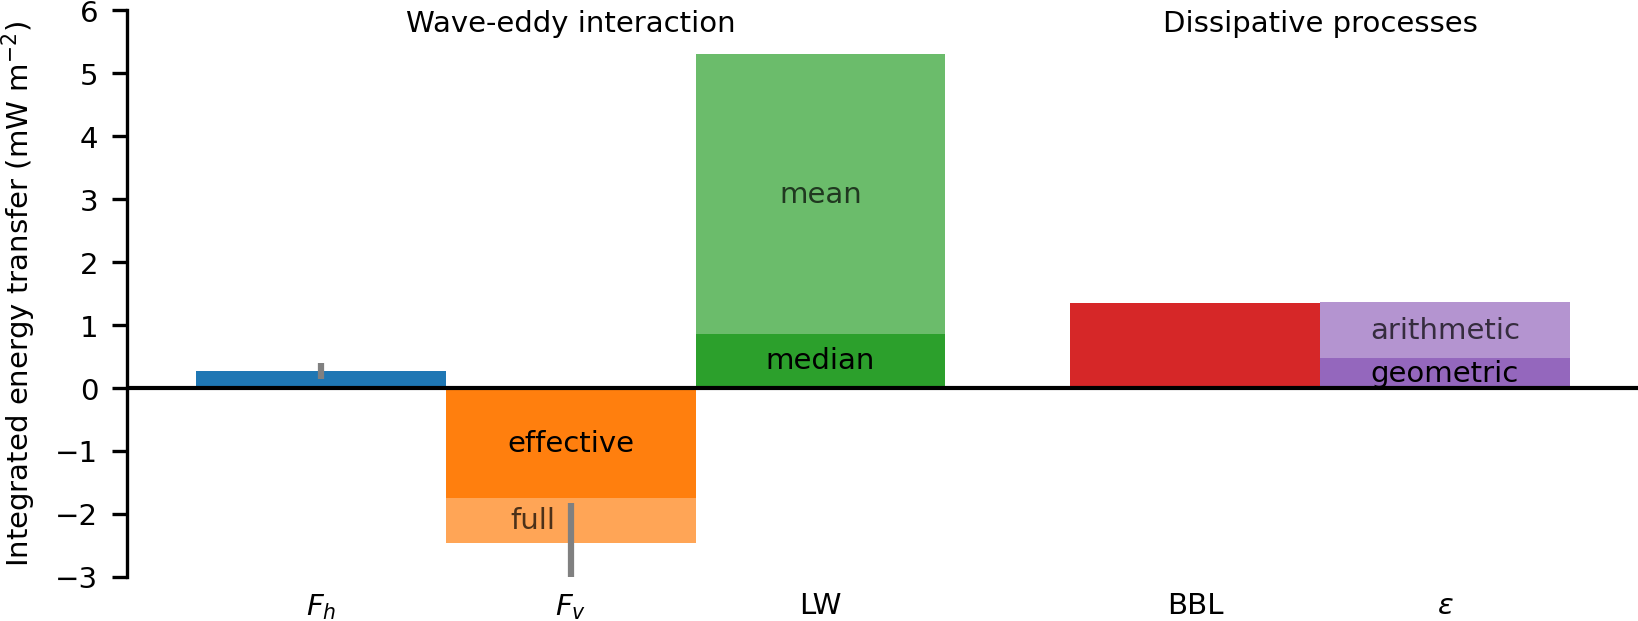
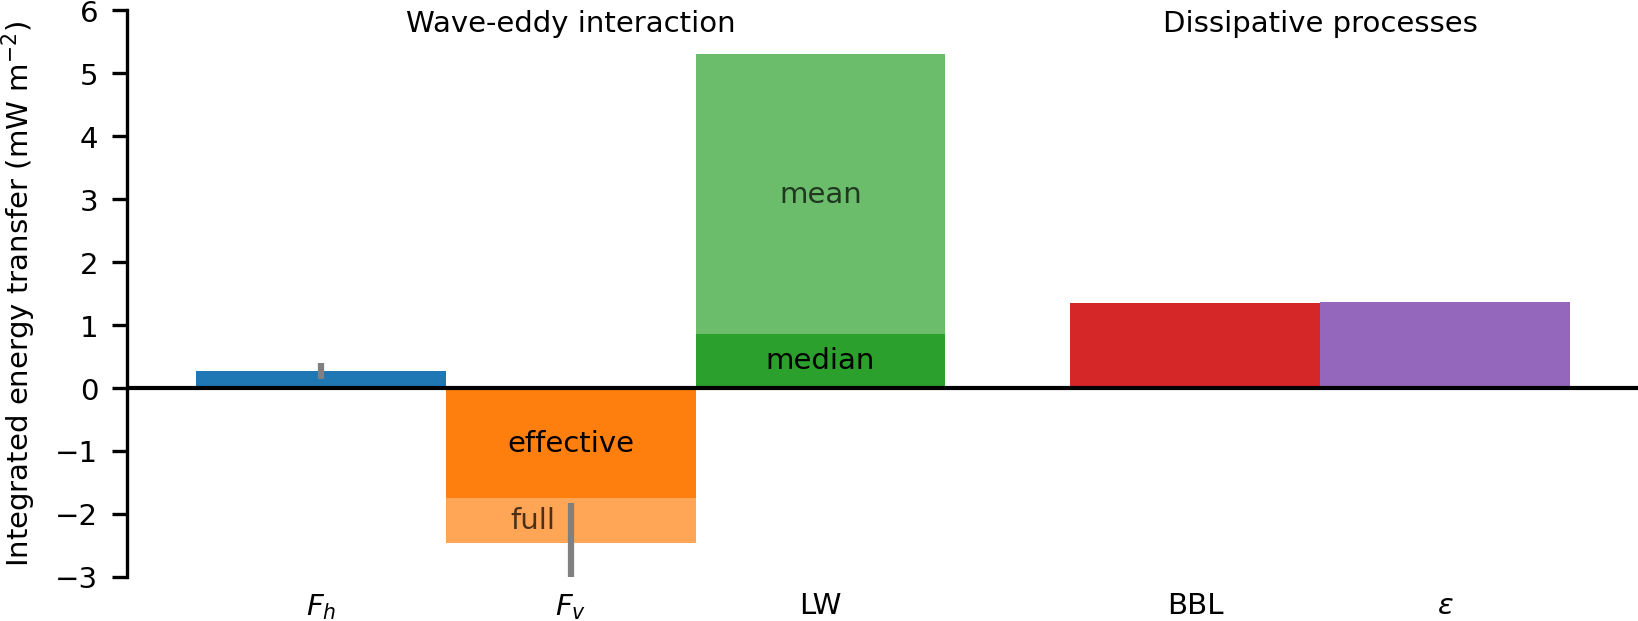
update figure

Changed region(s): [[0.7784, 0.4589, 0.9652, 0.6119]]

diff --git a/code/total_energy_flux.py b/code/total_energy_flux.py
@@ -214,7 +214,7 @@ use = (VMP.z[:, 0] > zmin) & (VMP.z[:, 0] < zmax)
 
 zvmp = VMP.z[use, 0]
 epsam = np.nanmean(VMP.eps[use, :], axis=1)
-epsgm = cfs.nangmean(VMP.eps[use, :], axis=1)
+# epsgm = cfs.nangmean(VMP.eps[use, :], axis=1)
 
 F_total = m.F_total.mean(axis=0)
 F_total_eff = (m.F_vert_alt + m.F_horiz).mean(axis=0)
@@ -226,7 +226,7 @@ F_horiz_int = -g0 * np.trapz(m.F_horiz.mean(axis=0), z)
 F_vert_int = -g0 * np.trapz(m.F_vert.mean(axis=0), z)
 F_vert_eff_int = -g0 * np.trapz(m.F_vert_alt.mean(axis=0), z)
 epsa_int = -g0 * np.trapz(epsam, zvmp)
-epsg_int = -g0 * np.trapz(epsgm, zvmp)
+# # epsg_int = -g0 * np.trapz(epsgm, zvmp)
 
 # Error on integrals.
 Fhierr = 1.96 * g0 * utils.etrapz(utils.emean(m.errF_horiz, axis=0), z)
@@ -242,7 +242,7 @@ print("F_horiz_int = {:1.3e} +/- {:1.3e} W/m^2".format(F_horiz_int, Fhierr))
 print("F_vert_int = {:1.3e} +/- {:1.3e} W/m^2".format(F_vert_int, Fvierr))
 print("F_vert_eff_int = {:1.3e} W/m^2".format(F_vert_eff_int))
 print("epsa_int = {:1.3e} W/m^2".format(epsa_int))
-print("epsg_int = {:1.3e} W/m^2".format(epsg_int))
+# print("epsg_int = {:1.3e} W/m^2".format(epsg_int))
 # print('BBL_lo = {:1.3e} W/m^2'.format(BBL_lo))
 # print('BBL_hi = {:1.3e} W/m^2'.format(BBL_hi))
 print("BBL = {:1.3e} W/m^2".format(BBL))
@@ -267,8 +267,8 @@ ax.bar(2, 0.86, width, color="C2")  # Anual median
 
 ax.bar(3.5, c * BBL, width, color="C3")
 
-ax.bar(4.5, c * epsa_int, width, color="C4", alpha=0.7)
-ax.bar(4.5, c * epsg_int, width, color="C4")
+ax.bar(4.5, c * epsa_int, width, color="C4")  #, alpha=0.7)
+# ax.bar(4.5, c * epsg_int, width, color="C4")
 
 text_kwargs = {"ha": "center", "va": "center"}
 
@@ -283,13 +283,13 @@ ax.annotate("mean", (2, 0.86 + 0.5 * (5.3 - 0.86)), **text_kwargs, alpha=0.7)
 ax.annotate("median", (2, 0.86 / 2), **text_kwargs)
 # ax.annotate('eddies', (3.5, c*BBL_lo/2), **text_kwargs)
 # ax.annotate('waves', (3.5, c*(BBL_lo + 0.5*BBL_hi)), **text_kwargs, alpha=0.7)
-ax.annotate("geometric", (4.5, c * epsg_int / 2), **text_kwargs)
-ax.annotate(
-    "arithmetic",
-    (4.5, c * (epsg_int + 0.5 * (epsa_int - epsg_int))),
-    **text_kwargs,
-    alpha=0.7
-)
+# ax.annotate("geometric", (4.5, c * epsg_int / 2), **text_kwargs)
+# ax.annotate(
+#     "arithmetic",
+#     (4.5, c * (epsg_int + 0.5 * (epsa_int - epsg_int))),
+#     **text_kwargs,
+#     alpha=0.7
+# )
 
 ax.annotate("Wave-eddy interaction", (1, 5.8), **text_kwargs)
 ax.annotate("Dissipative processes", (4, 5.8), **text_kwargs)
@@ -324,3 +324,5 @@ for lev in range(ca.N_levels):
     print("mean depth {:1.0f} m".format(-ca.z[:, lev].mean()))
     print("shear strain rate std {:1.1e} s-1".format(ca.sstrain[:, lev].std()))
     print("vertial shear std {:1.1e} s-1".format(ca.dudz[:, lev].std()))
+
+# %%
